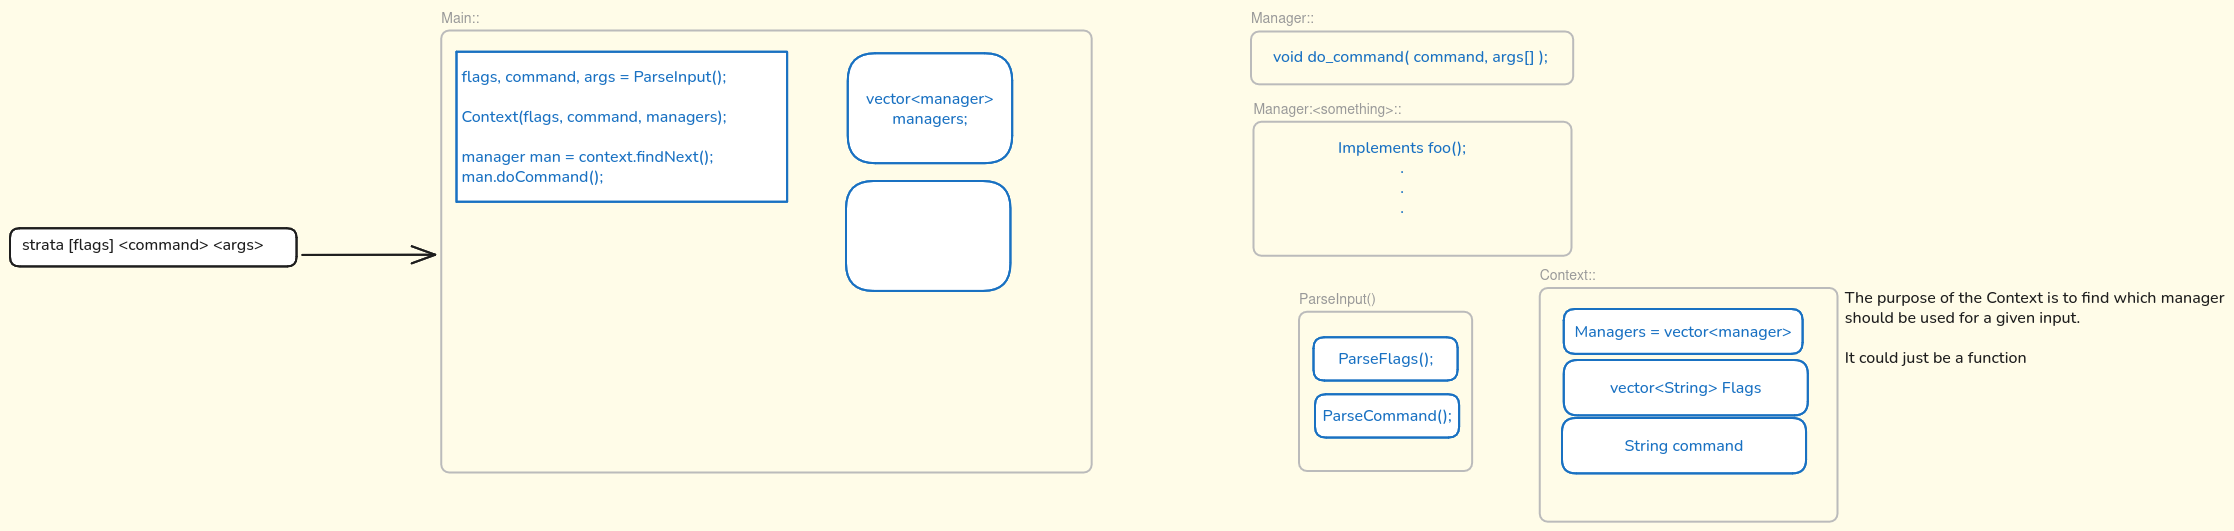
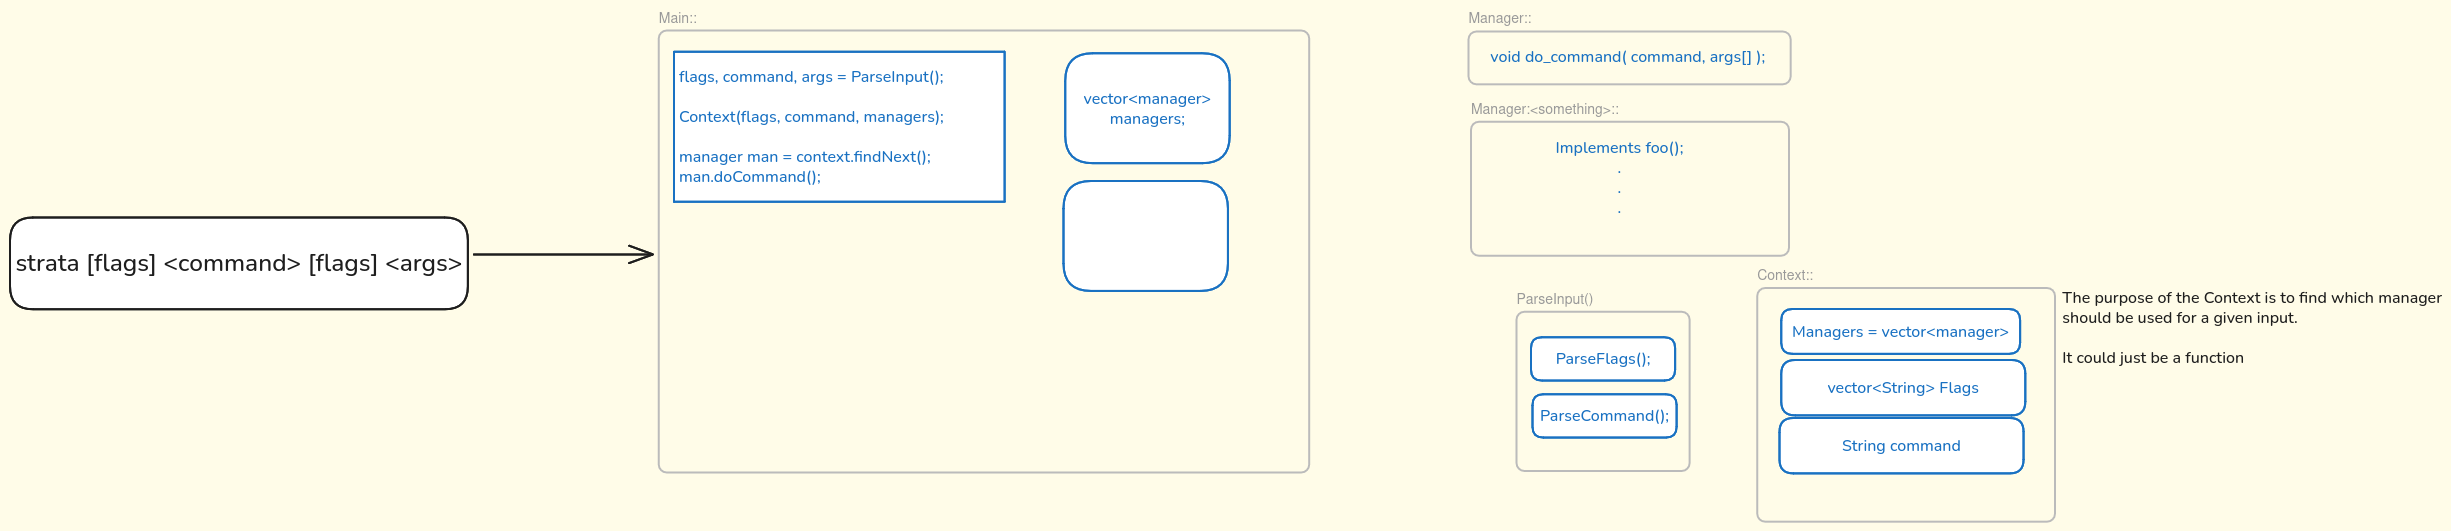
Updated Parser design

diff --git a/src/main.cpp b/src/main.cpp
@@ -1,9 +1,8 @@
 /*
-/   Date: 2/11/26
+/   Date: 2/16/26
 /   Ver:  1.0.0
 /
-/   Purpose:    This main.cpp file handles all of the std input and output of the command line interface.
-/               All commands and flags will be handled in their respective header/src files.
+/   Purpose:    This main.cpp file handles all of the high-level application logic
 /               
 */
 

diff --git a/src/parser/parser.cpp b/src/parser/parser.cpp
@@ -6,6 +6,7 @@ using namespace std;
 void Parser::parse() {
     parseFlag();
     parseCommand();
+    parseFlag();
 
     // the remainder of the arguments will be passed forward
     args = deque<string>(inputs);
